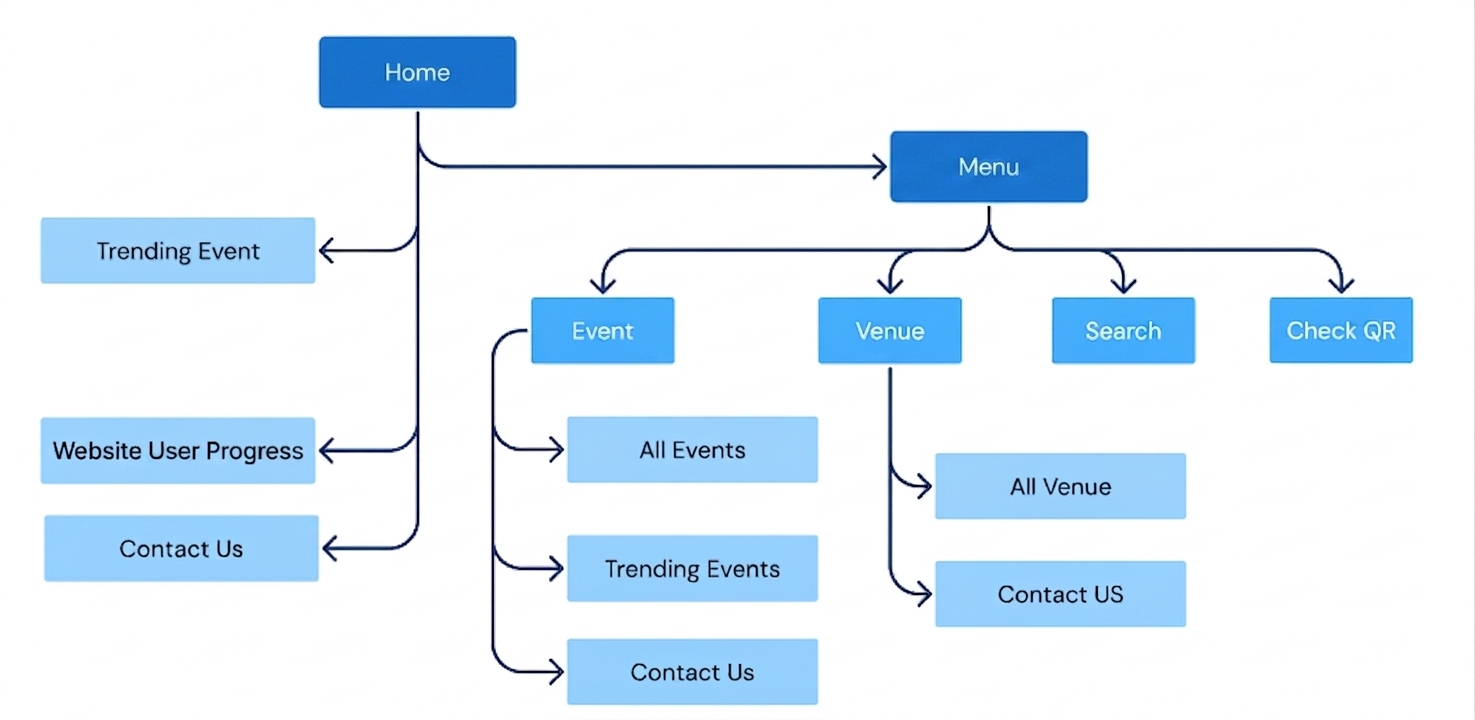
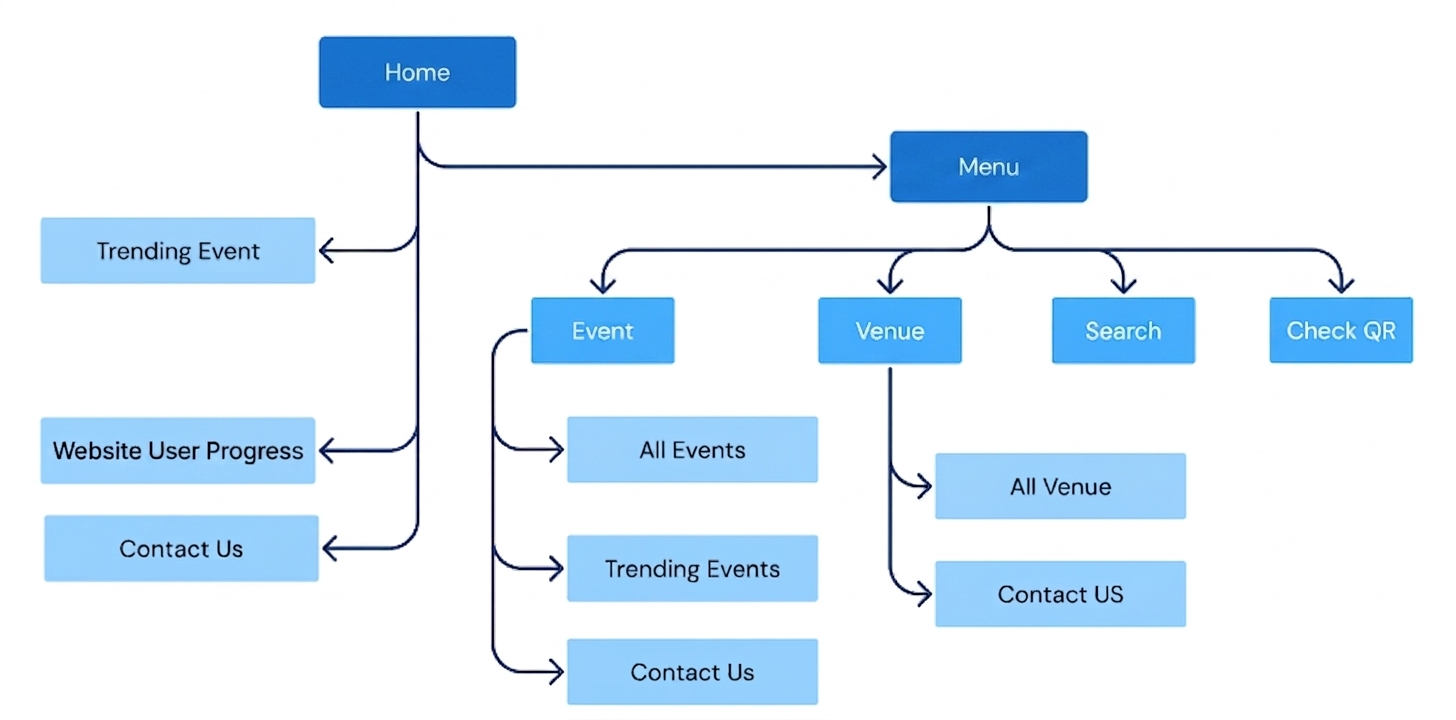
-

diff --git a/index2.html b/index2.html
@@ -53,7 +53,9 @@
         .container {
             max-width: 1800px;
             margin: 0 auto;
-            padding: 40px 0px;
+
+            padding: 40px 24px;
+
             display: flex;
             flex-direction: column;
             gap: 40px;
@@ -61,7 +63,7 @@
 
         @media (min-width: 1024px) {
             .container {
-                padding: 40px 0px;
+                padding: 40px 40px;
                 gap: 60px;
             }
         }